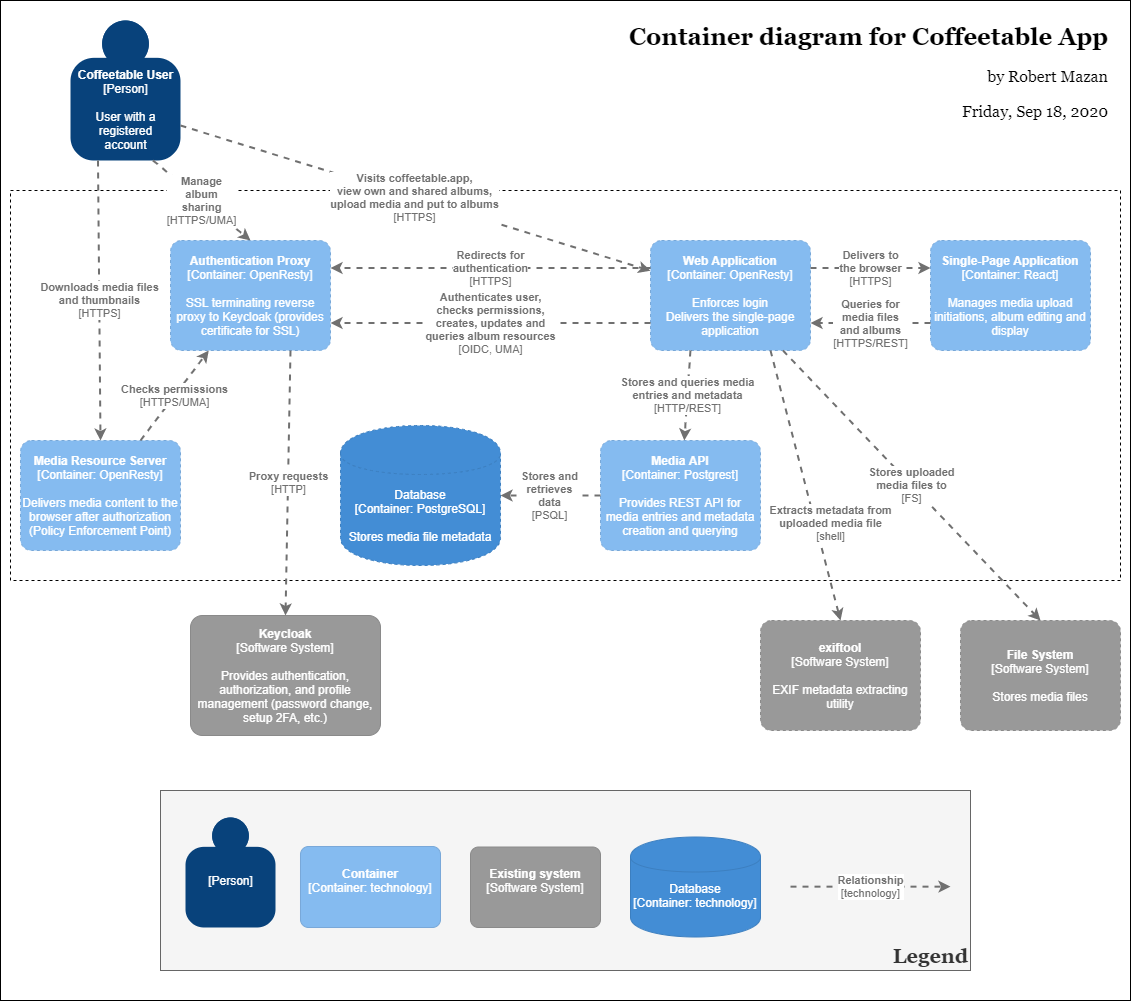
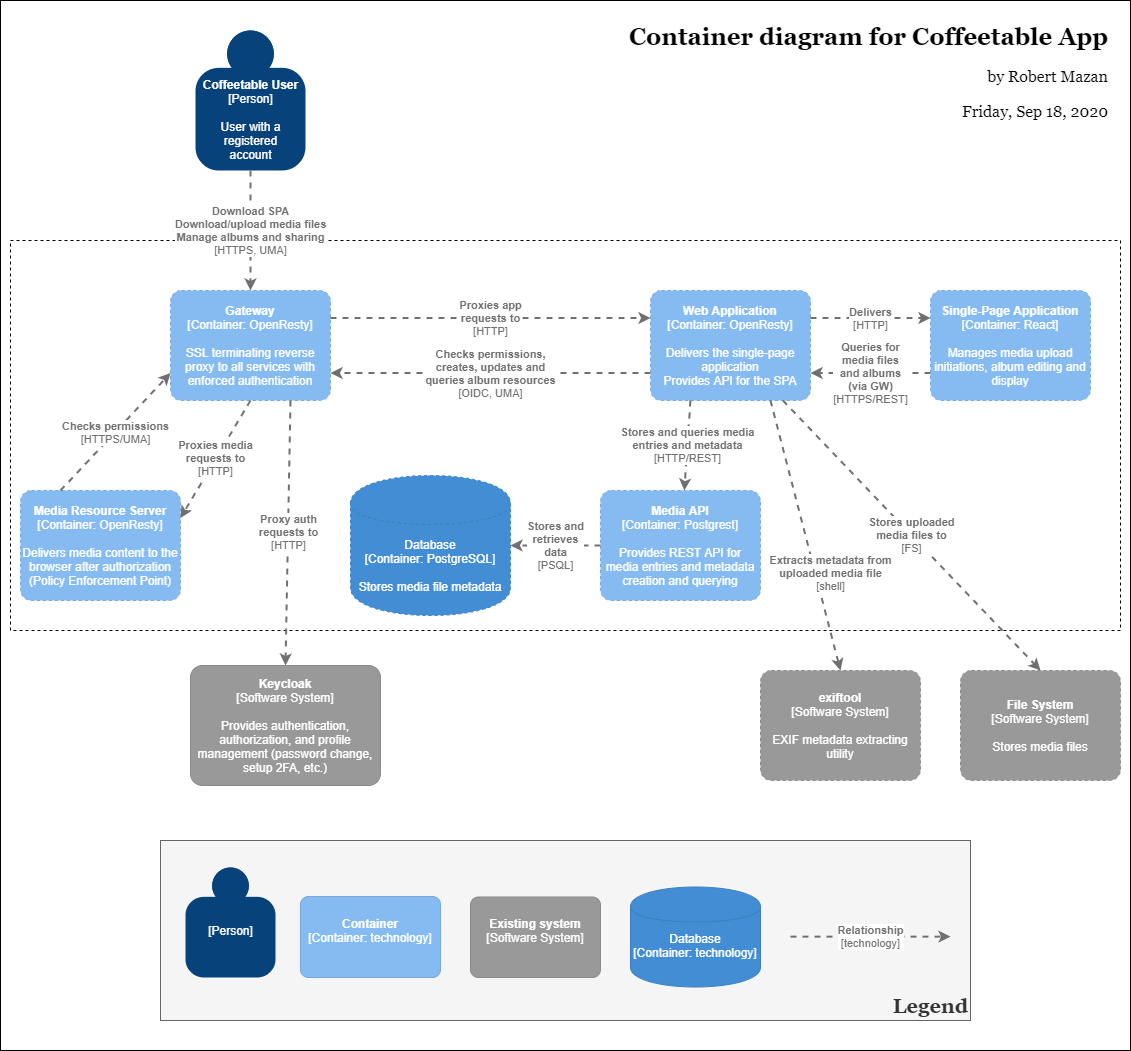
Introducing the Gateway component

diff --git a/docs/architecture.md b/docs/architecture.md
@@ -46,6 +46,7 @@ OIDC                 | OpenID Connect (see [specifications](https://openid.net/c
 UMA                  | User-Managed Access (see [UMA FAQ](https://kantarainitiative.org/confluence/display/uma/UMA+FAQ))
 2FA                  | Two-factor authentication
 Exif                 | Exchangeable image file format
+SPA                  | Single-Page Application
 
 ## High-level requirements
 
@@ -122,11 +123,7 @@ A command-line tool that is used to extract metadata from media files. This data
 
 #### Web Application
 
-Controls access to the Single-Page Application: stores the OIDC access token in the HTTP session identified by a session cookie and if the session or the cookie is not existing or expired it initiates redirect to Keycloak to log in (via the Authentication Proxy).
-
 Serves all the static assets related to the Single-Page Application.
-
-Transforms media related queries into Media API requests, enriches proxied headers by adding bearer token to the Authentication header (provided from the session).
 
 ![Component Diagram for the Web Application](images/web_application_component.png)
 
@@ -134,8 +131,9 @@ Manages media uploads: handles the physical file upload, extracts metadata using
 
 ![Dynamic Diagram for media upload](images/upload.png)
 
-If the UMA interfaces provided by Keycloak turns out to be not usable enough, the Web Application's responsibility will be to provide an appropriate API to the Single-Page Application for users to manage their own albums sharing.
+Provides restricted access to the Media API so the Single-Page Application can run queries for media items.
 
+If the UMA interfaces provided by Keycloak turns out to be not usable enough, the Web Application's responsibility will be to provide an appropriate API to the Single-Page Application for users to manage their own albums sharing.
 
 #### Media API
 
@@ -145,9 +143,9 @@ Provides REST API over the DB for the Web Application. No direct access is possi
 
 Serves uploaded media files to the Single-Page Application after checking the downloading user's permissions first with Keycloak.
 
-#### Authentication Proxy
+#### Gateway
 
-A simple SSL terminating proxy to the running Keycloak instance. This way we don't have to manage certificates in Keycloak, plus this adds an extra (highly configurable) security layer where we can introduce extra security measures (e.g. request throttling) to protect the Keycloak instance from attacks.
+All requests to the internal services are going through the Gateway. It also proxies application related requests (from the SPA) to the Web Application, and media file requests to the Media Resource Server but before doing so it enforces authentication using Keycloak - for that it directly proxies all auth requests to the Keycloak instance. For all proxied requests it attaches an `Authentication` header with the access token as bearer token so the internal services can identify the users and access their roles.
 
 #### Single-Page Application
 
